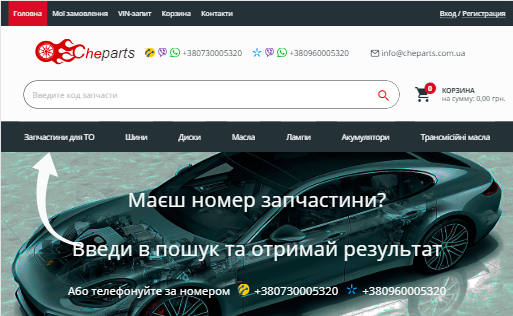
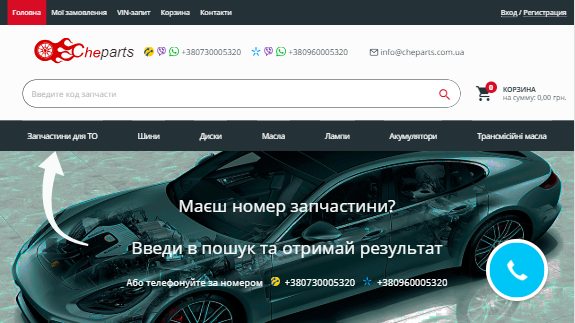
portfolio

diff --git a/index.html b/index.html
@@ -16,7 +16,7 @@
         <a class="effect" href="https://ihorsenko.github.io/Digital-Agencies/dist/"><img src="img/creative.png" alt="Digital-Agencies"/><span></span></a>
         <a class="effect" href="https://ihorsenko.github.io/365psd/dist/"><img src="img/host.png" alt="365psd"/><span></span></a> 
         <a class="effect" href="https://ihorsenko.github.io/topbuild/dist/"><img src="img/topbuild.png" alt="topbuild"/><span></span></a> 
-        <a class="effect" href="https://cheparts.com.ua/"><img src="img/creative.png" alt="cheparts"/><span></span></a> 
+        <a class="effect" href="https://cheparts.com.ua/"><img src="img/Cheparts.com.ua.png" alt="cheparts"/><span></span></a> 
     </div>
     <div class="btn-prev"><span onclick="galleryspin('-')" class="controls" id="previous">&lt;</span></div>
     <div class="btn-next"><span onclick="galleryspin('')" class="controls" id="next">&gt;</span></div>
